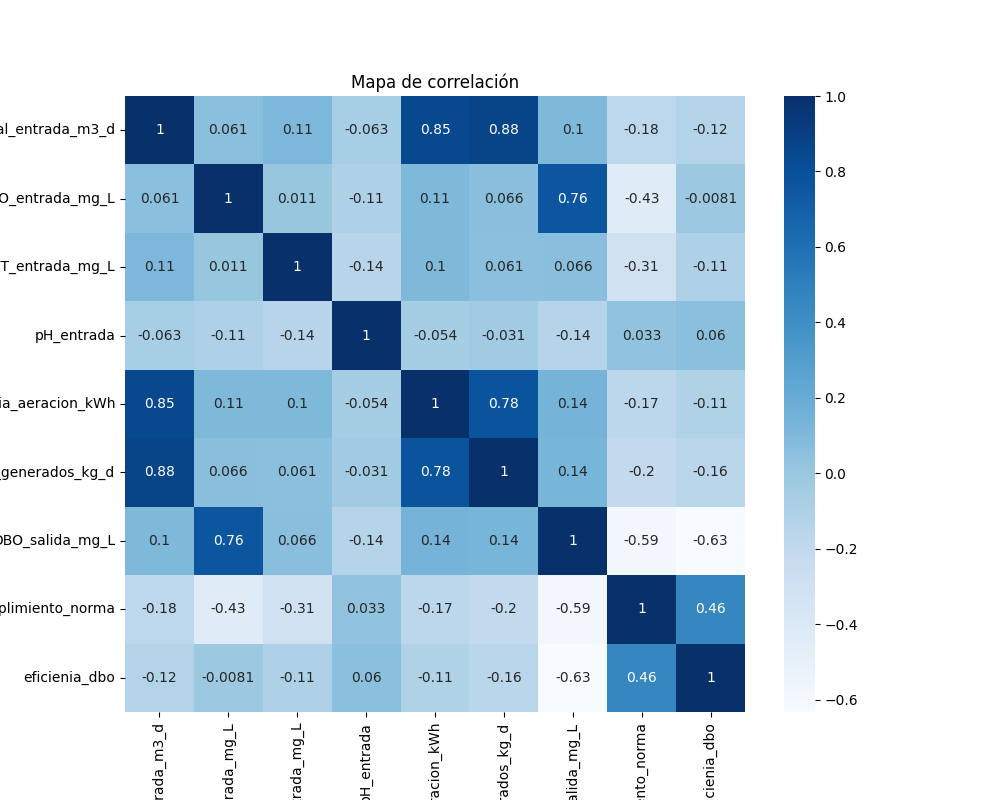
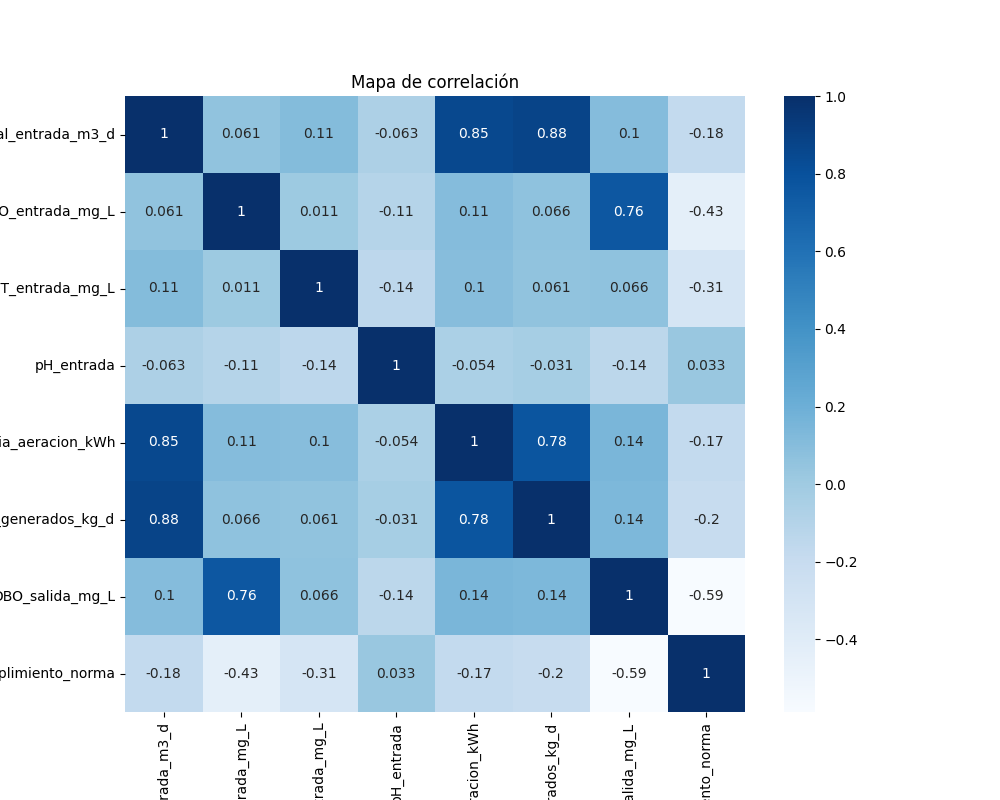
Refactorizacion modular AquaLimpia

diff --git a/Analisis_AquaLimpia.py b/Analisis_AquaLimpia.py
@@ -2,13 +2,16 @@ import pandas as pd
 import matplotlib.pyplot as plt
 import seaborn as sns
 import os
+#from funciones import cargar_datos, calcular_eficiencia_DBO, clasificar_cumplimiento_planta
+from funciones import calcular_eficiencia_DBO, cargar_datos, clasificar_cumplimiento_planta
 
 # Crear directorio para gráficos si no existe
 os.makedirs("graficos", exist_ok=True)
 os.makedirs("reportes", exist_ok=True)
 
 # Cargar dataset
-df = pd.read_excel("dataset_set_A_aguas_residuales.xlsx")
+"""df = pd.read_excel("dataset_set_A_aguas_residuales.xlsx")"""
+df = cargar_datos("dataset_set_A_aguas_residuales.xlsx")
 
 # Visualizar primeras filas
 print(df.head())
@@ -16,17 +19,25 @@ print(df.info())
 
 # Convertir fecha
 df['fecha_registro'] = pd.to_datetime(df['fecha_registro'])
+
 # Calcular eficiencia DBO
-df['eficienia_dbo'] = (
+"""df['eficienia_dbo'] = (
     (df['DBO_entrada_mg_L'] - df['DBO_salida_mg_L'])
     / df['DBO_entrada_mg_L']
-) * 100
+) * 100"""
+
+# Mejorar función eficiencia DBO
+eficiencia = calcular_eficiencia_DBO(df)
+
 # Estadísticas descriptivas
-print(df.describe())
+print(eficiencia.describe())
 # Cumplimiento por planta
-cumplimiento = df.groupby('planta')[
+"""cumplimiento = df.groupby('planta')[
     'cumplimiento_norma'
-].mean() * 100
+].mean() * 100"""
+
+#mejorar función cumplimiento
+cumplimiento = clasificar_cumplimiento_planta(df)
 
 print(cumplimiento)
 
@@ -60,13 +71,13 @@ plt.savefig( "graficos/mapa_correlacion.png")
 plt.show()
 
 # Exportar archivo operaciones
-operaciones = df[['fecha_registro','planta','caudal_entrada_m3_d','DBO_entrada_mg_L',
-    'DBO_salida_mg_L','energia_aeracion_kWh','lodos_generados_kg_d','eficienia_dbo'
+operaciones = eficiencia[['fecha_registro','planta','caudal_entrada_m3_d','DBO_entrada_mg_L',
+    'DBO_salida_mg_L','energia_aeracion_kWh','lodos_generados_kg_d','eficiencia_DBO'
 ]]
 
 operaciones.to_csv('reportes/operaciones.csv', index=False)
 # Exportar archivo ambiental
-ambiental = df[['fecha_registro', 'planta','DBO_salida_mg_L','cumplimiento_norma']]
+ambiental = eficiencia[['fecha_registro', 'planta','DBO_salida_mg_L','cumplimiento_norma']]
 
 ambiental.to_csv('reportes/gestion_ambiental.csv', index=False)
 print("Archivos exportados correctamente")

diff --git a/funciones.py b/funciones.py
@@ -1,0 +1,65 @@
+import pandas as pd
+
+def cargar_datos(ruta):
+    """
+    Carga un archivo Excel y devuelve un DataFrame.
+    
+    Parámetros:
+    ruta (str): Ruta del archivo Excel a cargar.
+    
+    Retorna:
+    pd.DataFrame: DataFrame con los datos cargados.
+    """
+    try:
+        df = pd.read_excel(ruta)
+        print("Datos cargados correctamente.")
+        return df
+    except Exception as e:
+        print(f"Error al cargar los datos: {e}")
+        return None
+
+# CALCULAR EFICIENCIA DBO
+
+def calcular_eficiencia_DBO(df):
+    """
+    Calcula la eficiencia de DBO y la agrega al DataFrame.
+    
+    Parámetros:
+    df (pd.DataFrame): DataFrame que contiene las columnas 'DBO_inicial' y 'DBO_final'.
+    
+    Retorna:
+    pd.DataFrame: DataFrame con una nueva columna 'eficiencia_DBO'.
+    """
+    df = df.copy()
+    df["eficiencia_DBO"] = (df["DBO_entrada_mg_L"] - df["DBO_salida_mg_L"]) / df["DBO_entrada_mg_L"] * 100
+    return df
+
+# Cumplimiento por planta
+def clasificar_cumplimiento_planta(df):
+    cumplimiento  = df.groupby(
+        'planta'
+    )['cumplimiento_norma'].mean() * 100
+    return cumplimiento
+
+# CALCULAR CUMPLIMIENTO
+def calcular_cumplimiento_planta(valor_dbo):
+    if valor_dbo <= 30:
+        return "Cumple"
+    else:   
+        return "No Cumple"
+    
+# VALIDAR VALORES NULOS
+def validar_valores_nulos(df):
+    nulos = df.isnull().sum()
+    print("Valores nulos por columna:")
+    print(nulos)
+
+# VALIDAR DUPLICADOS
+def validar_duplicados(df):
+    duplicados = df.duplicated().sum()
+    print(f"Cantidad de filas duplicadas: {duplicados}")
+
+
+
+def cargar_datos(ruta):
+    return pd.read_excel(ruta)
